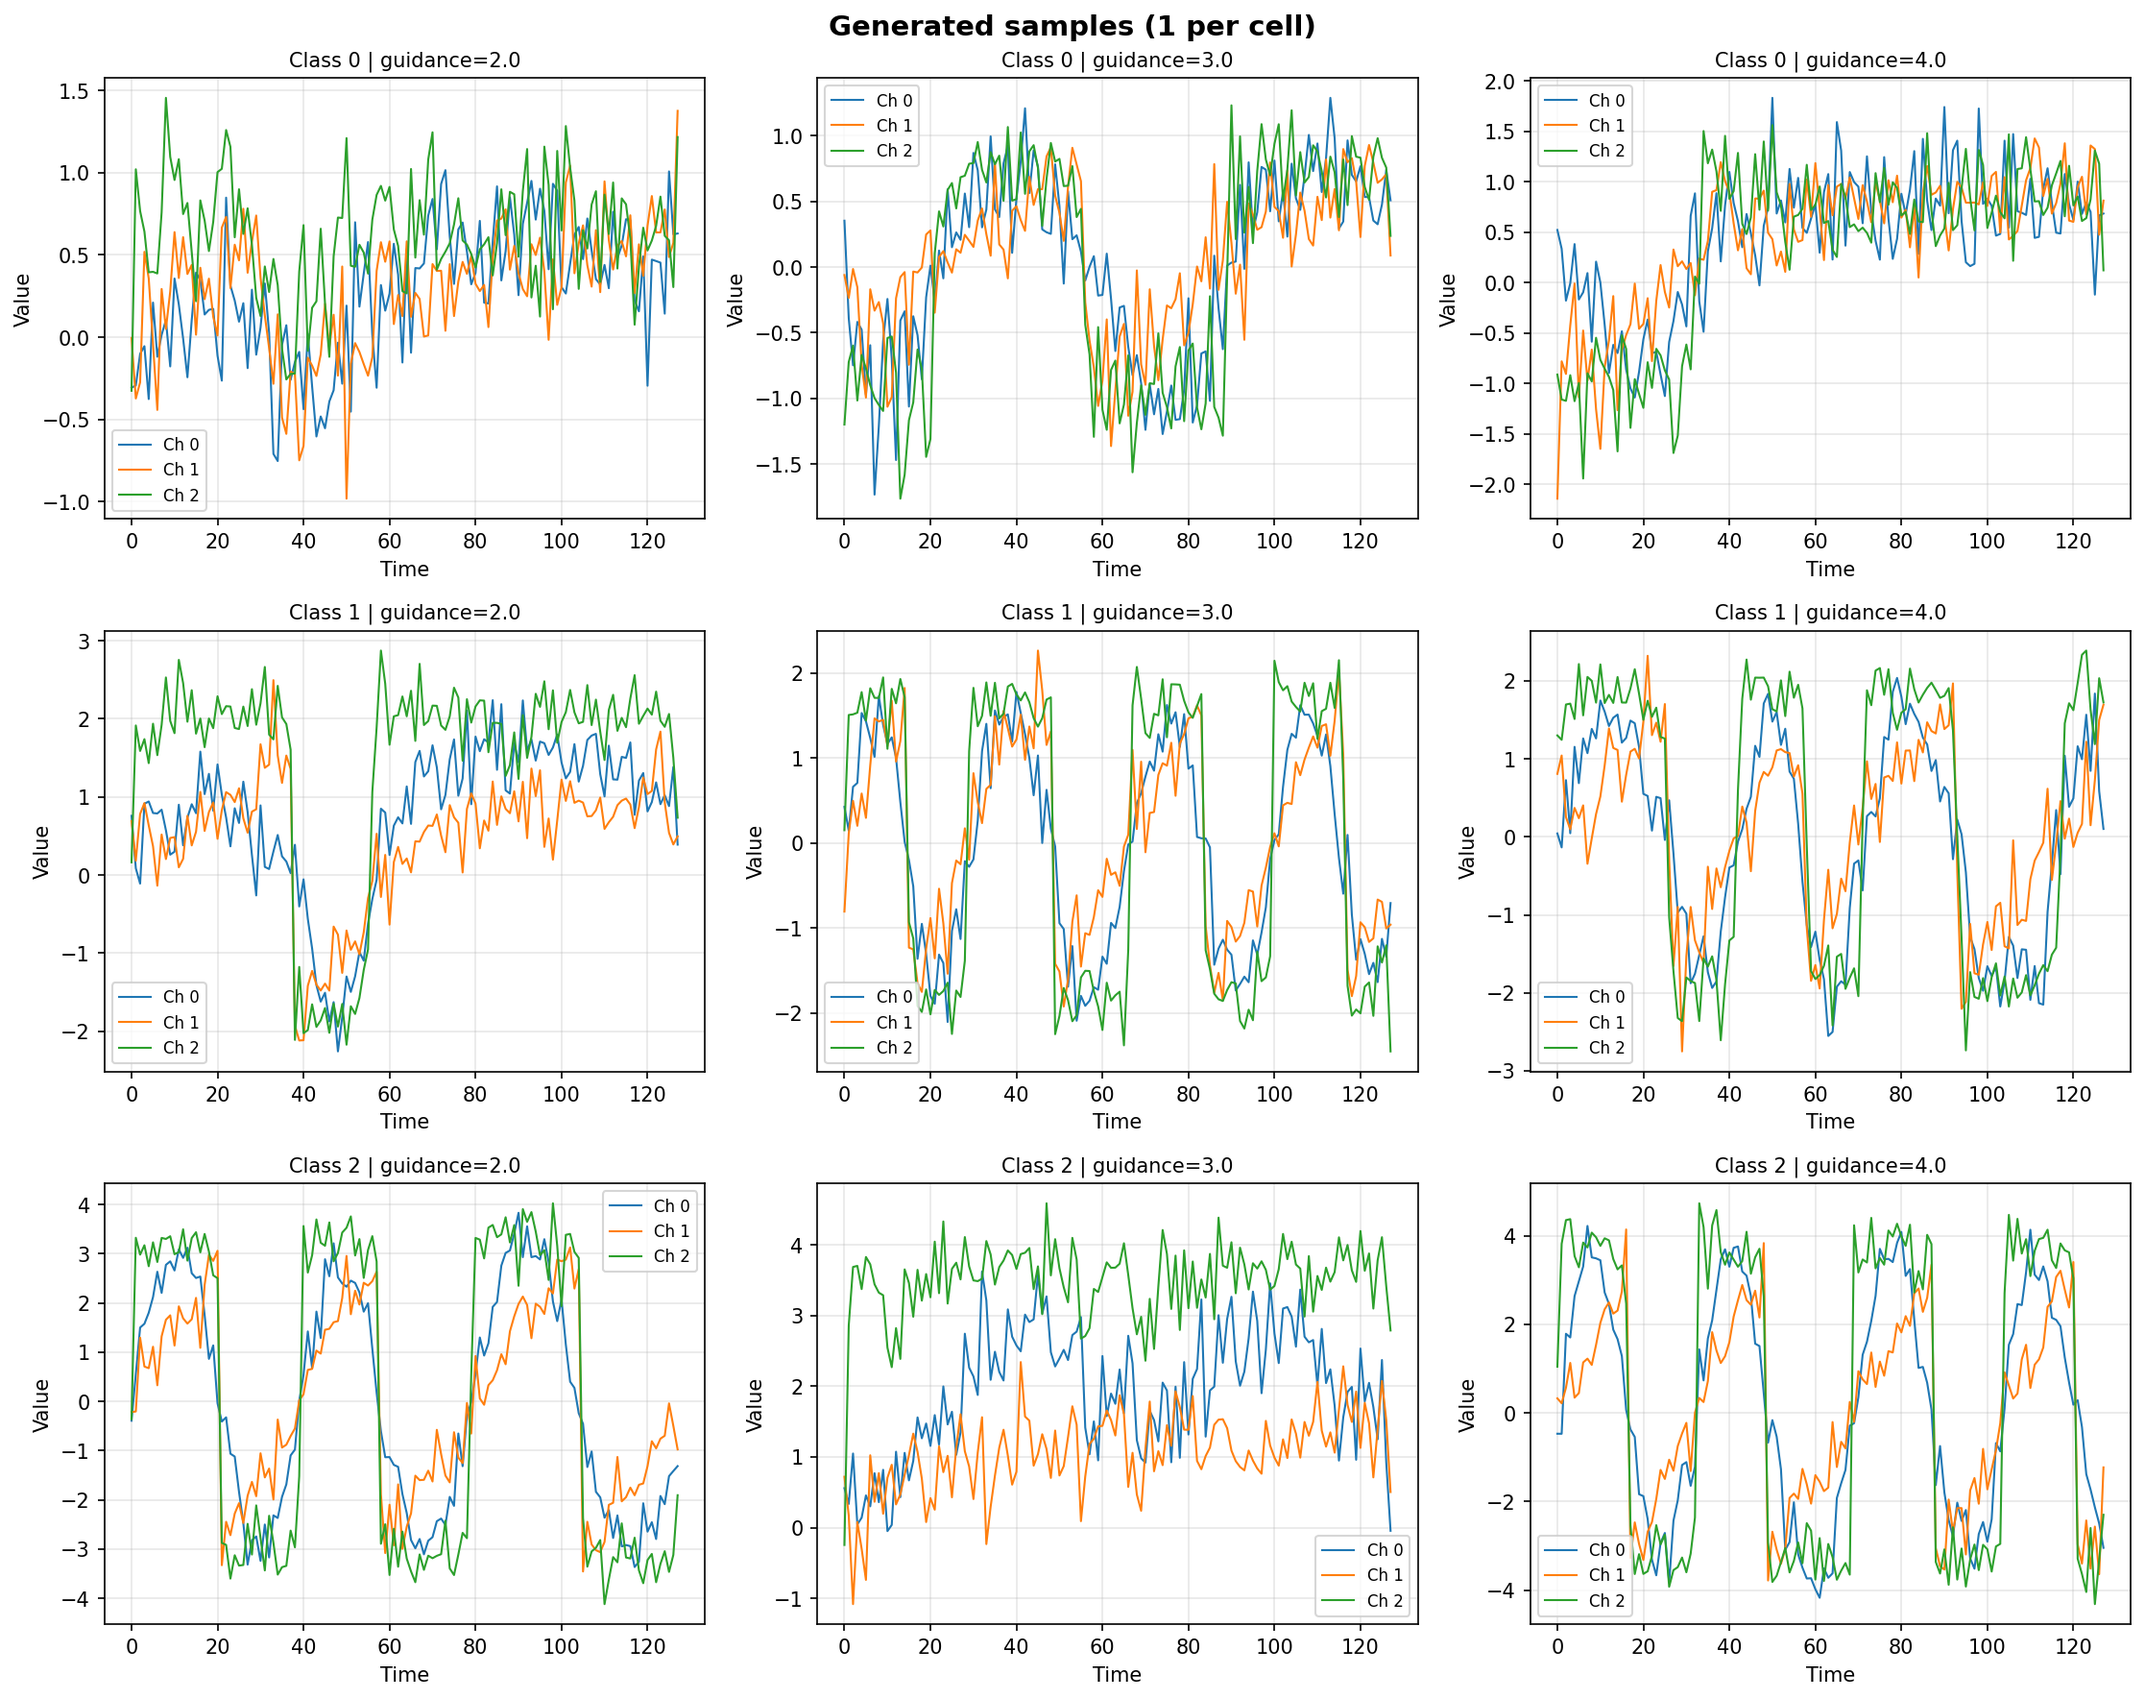
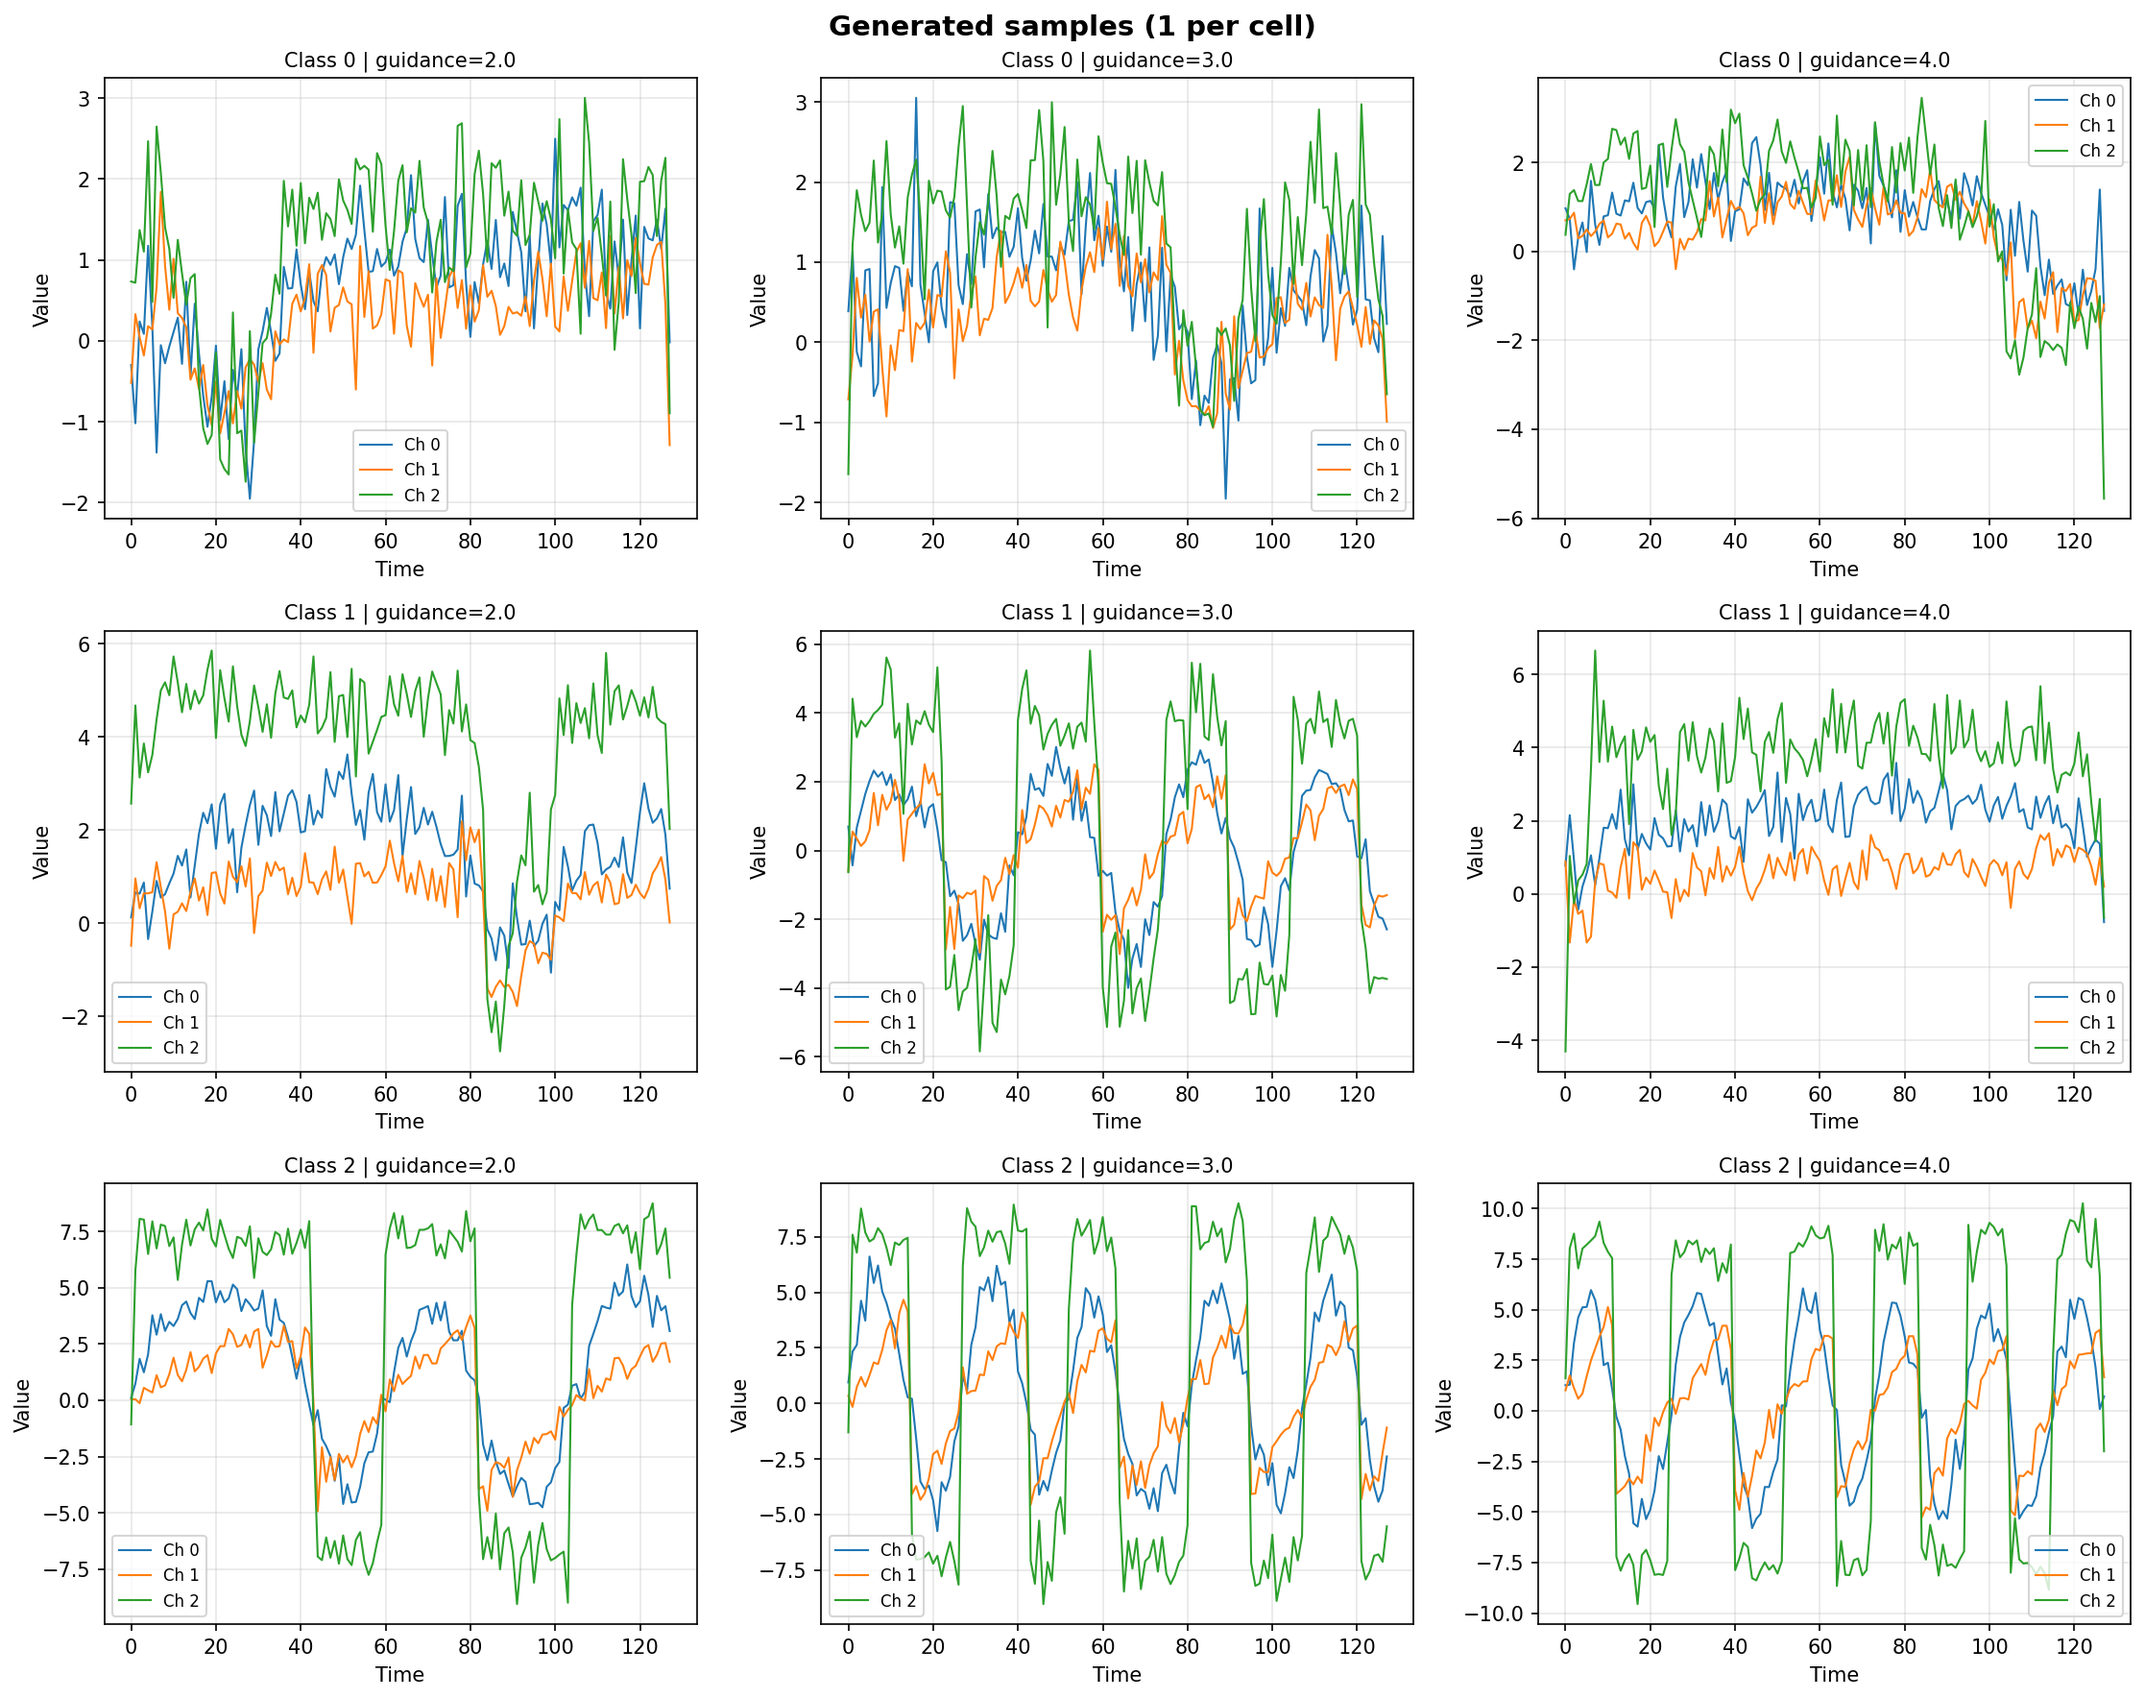
applied denormalization to visualizations

diff --git a/src/diffusion_models/architectures/unet.py b/src/diffusion_models/architectures/unet.py
@@ -137,6 +137,8 @@ class UNet(ConditionalVectorField, ABC):
     def visualize(
         self,
         p_data_shape: List[int],
+        dataset_mean: torch.Tensor,
+        dataset_std: torch.Tensor,
         class_idx: int | None = None,
         num_timesteps: int = 30,
         guidance_scales: List[float] = [2.0, 3.0, 4.0],
@@ -187,6 +189,10 @@ class UNet(ConditionalVectorField, ABC):
                     guidance_scale=float(gs),
                     device=device,
                 )  # (1, channels, length)
+
+                # Apply denormalization for visualization
+                sample = sample * dataset_std + dataset_mean
+
                 all_samples[(cls_idx, float(gs))] = sample
                 sample_np = sample[0].cpu().numpy()  # (channels, length)
 
@@ -223,6 +229,8 @@ class UNet(ConditionalVectorField, ABC):
         self,
         p_data_shape: List[int],
         real_data: List[torch.Tensor],
+        dataset_mean: torch.Tensor,
+        dataset_std: torch.Tensor,
         num_samples: int = 1000,
         num_timesteps: int = 30,
         guidance_scale: float = 2.0,
@@ -268,7 +276,11 @@ class UNet(ConditionalVectorField, ABC):
                 num_timesteps=num_timesteps,
                 guidance_scale=guidance_scale,
                 device=device,
-            )
+            )  # (num_samples, channels, length)
+
+            # Apply denormalization
+            generated = generated * dataset_std.to(device) + dataset_mean.to(device)
+
             gen_flat = generated.cpu().reshape(generated.shape[0], -1).numpy()
 
             all_features.append(real_flat)

diff --git a/src/diffusion_models/utils/test.py b/src/diffusion_models/utils/test.py
@@ -8,23 +8,28 @@ device = torch.device("cuda" if torch.cuda.is_available() else "cpu")
 # get model from mlflow
 model = mlflow.pytorch.load_model("models:/standard_unet_toy/4").to(device)
 sampler = WaveSampler()
+mean, std = sampler.get_mean_std()
 
-# model.visualize(
-#     p_data_shape=[3, 128],
-#     save_path="plots/signals/standard_unet_toy.png",
-# )
+model.visualize(
+    p_data_shape=[3, 128],
+    dataset_mean=mean.to(device),
+    dataset_std=std.to(device),
+    save_path="plots/signals/standard_unet_toy.png",
+)
 
 # t-SNE visualization
 real_data = []
 for class_idx in range(3):
-    samples, _ = sampler.sample(num_samples=100, class_idx=class_idx)
-    samples = sampler.denormalize(samples).to(device)
-    real_data.append(samples.cpu())
+    samples, _ = sampler.sample(num_samples=100, class_idx=class_idx, normalize=False)
+    samples = sampler.denormalize(samples)
+    real_data.append(samples)
 
 # Generate t-SNE plot
 model.plot_tsne(
     p_data_shape=[3, 128],
     real_data=real_data,
+    dataset_mean=mean.to(device),
+    dataset_std=std.to(device),
     num_samples=100,
     guidance_scale=2.0,
     class_names=["amp1", "amp2", "amp3"],

diff --git a/src/diffusion_models/data/synthetic.py b/src/diffusion_models/data/synthetic.py
@@ -121,6 +121,10 @@ class WaveSampler(nn.Module, Sampleable):
         std = waves.std(dim=(0, 2), keepdim=True) + 1e-6
         return mean, std
 
+    def get_mean_std(self) -> Tuple[torch.Tensor, torch.Tensor]:
+        """Return the precomputed mean and std tensors."""
+        return self.mean, self.std
+
     def normalize(self, waves: torch.Tensor) -> torch.Tensor:
         return (waves - self.mean) / self.std
 
@@ -131,7 +135,7 @@ class WaveSampler(nn.Module, Sampleable):
         self,
         num_samples: int,
         mean: float = 4.0,
-        std: float = 1.0,
+        std: float = 2.0,
         class_idx: int | None = None,
         subset: str | None = None,
         normalize: bool = True,
